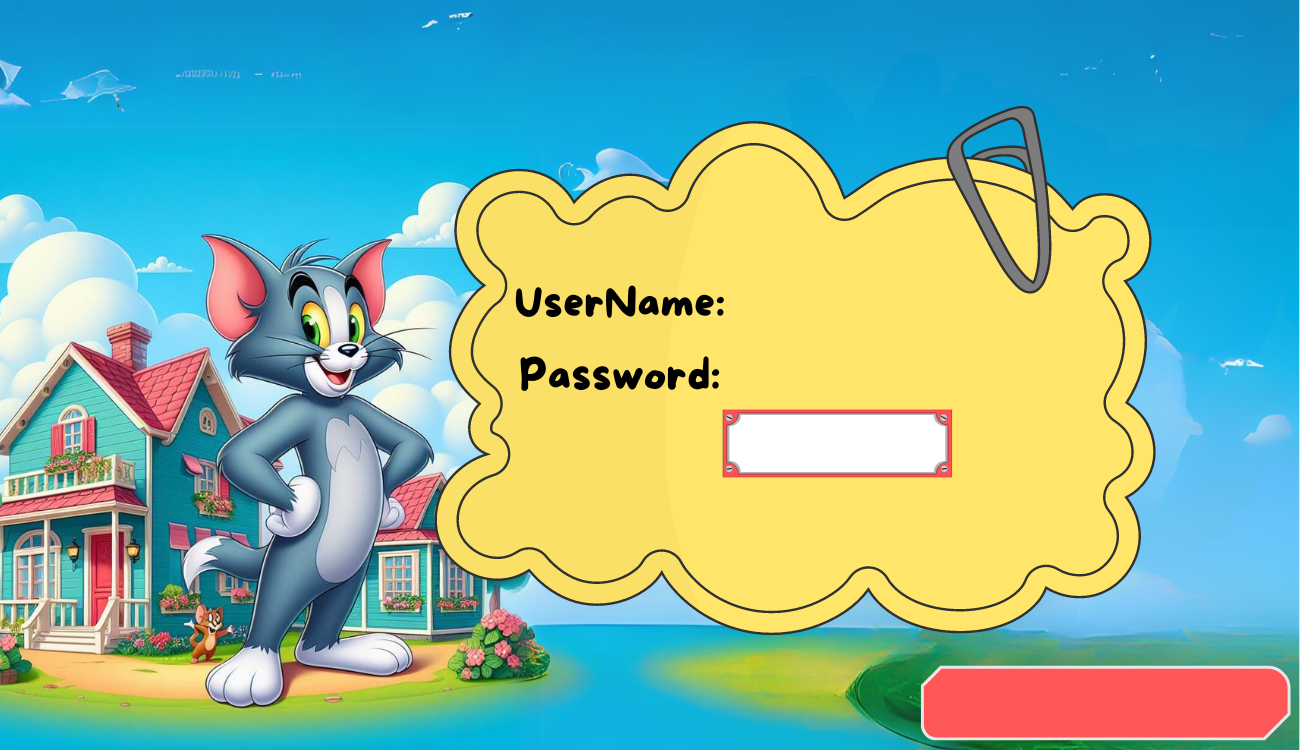
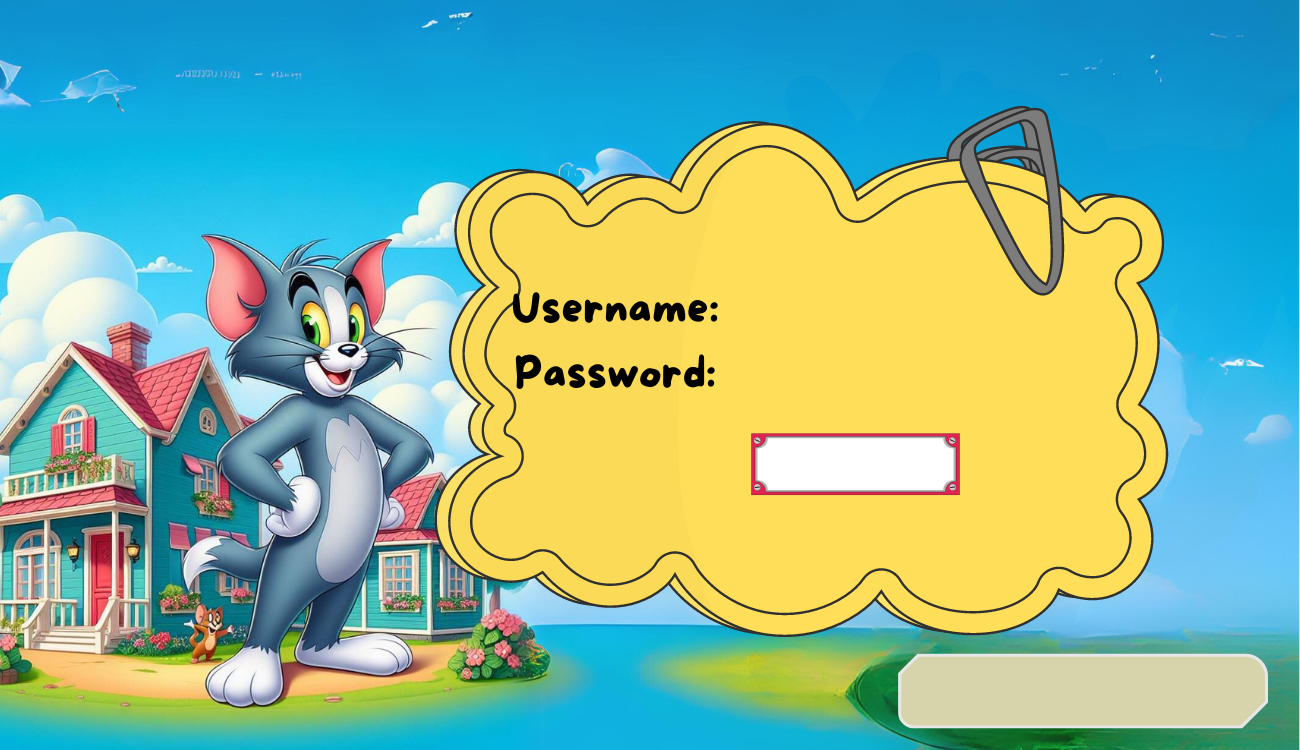
duong

Changed region(s): [[0.3385, 0.1227, 1.0, 1.0], [0.5538, 0.5213, 0.7385, 0.6747], [0.3385, 0.4293, 0.5538, 0.644]]

diff --git a/login_startgame.py b/login_startgame.py
@@ -174,8 +174,8 @@ class LoginMenu():
             # input_underline_vmargin = 1,
             password=False,
             onchange = self.reset_noti_login)
-        self.login_menu.add.button('Login', self.check_login)
-        self.login_menu.add.button('Return to main menu', pygame_menu.events.BACK)
+        self.login_menu.add.button('Login', self.check_login).translate(295,22)
+        self.login_menu.add.button('Return to main menu', pygame_menu.events.BACK).translate(440,180)
 
     def init_register_menu(self):
         self.register_menu = pygame_menu.Menu(
@@ -199,8 +199,8 @@ class LoginMenu():
             textinput_id='password',
             password=False,
             onchange = self.reset_noti_regis)
-        self.register_menu.add.button('                          Register', self.check_register)
-        self.register_menu.add.button('Return to main menu', pygame_menu.events.BACK)
+        self.register_menu.add.button('Register', self.check_register).translate(285,22)
+        self.register_menu.add.button('Return to main menu', pygame_menu.events.BACK).translate(440,180)
 
     def init_main_menu(self):
          self.main_menu = pygame_menu.Menu(
